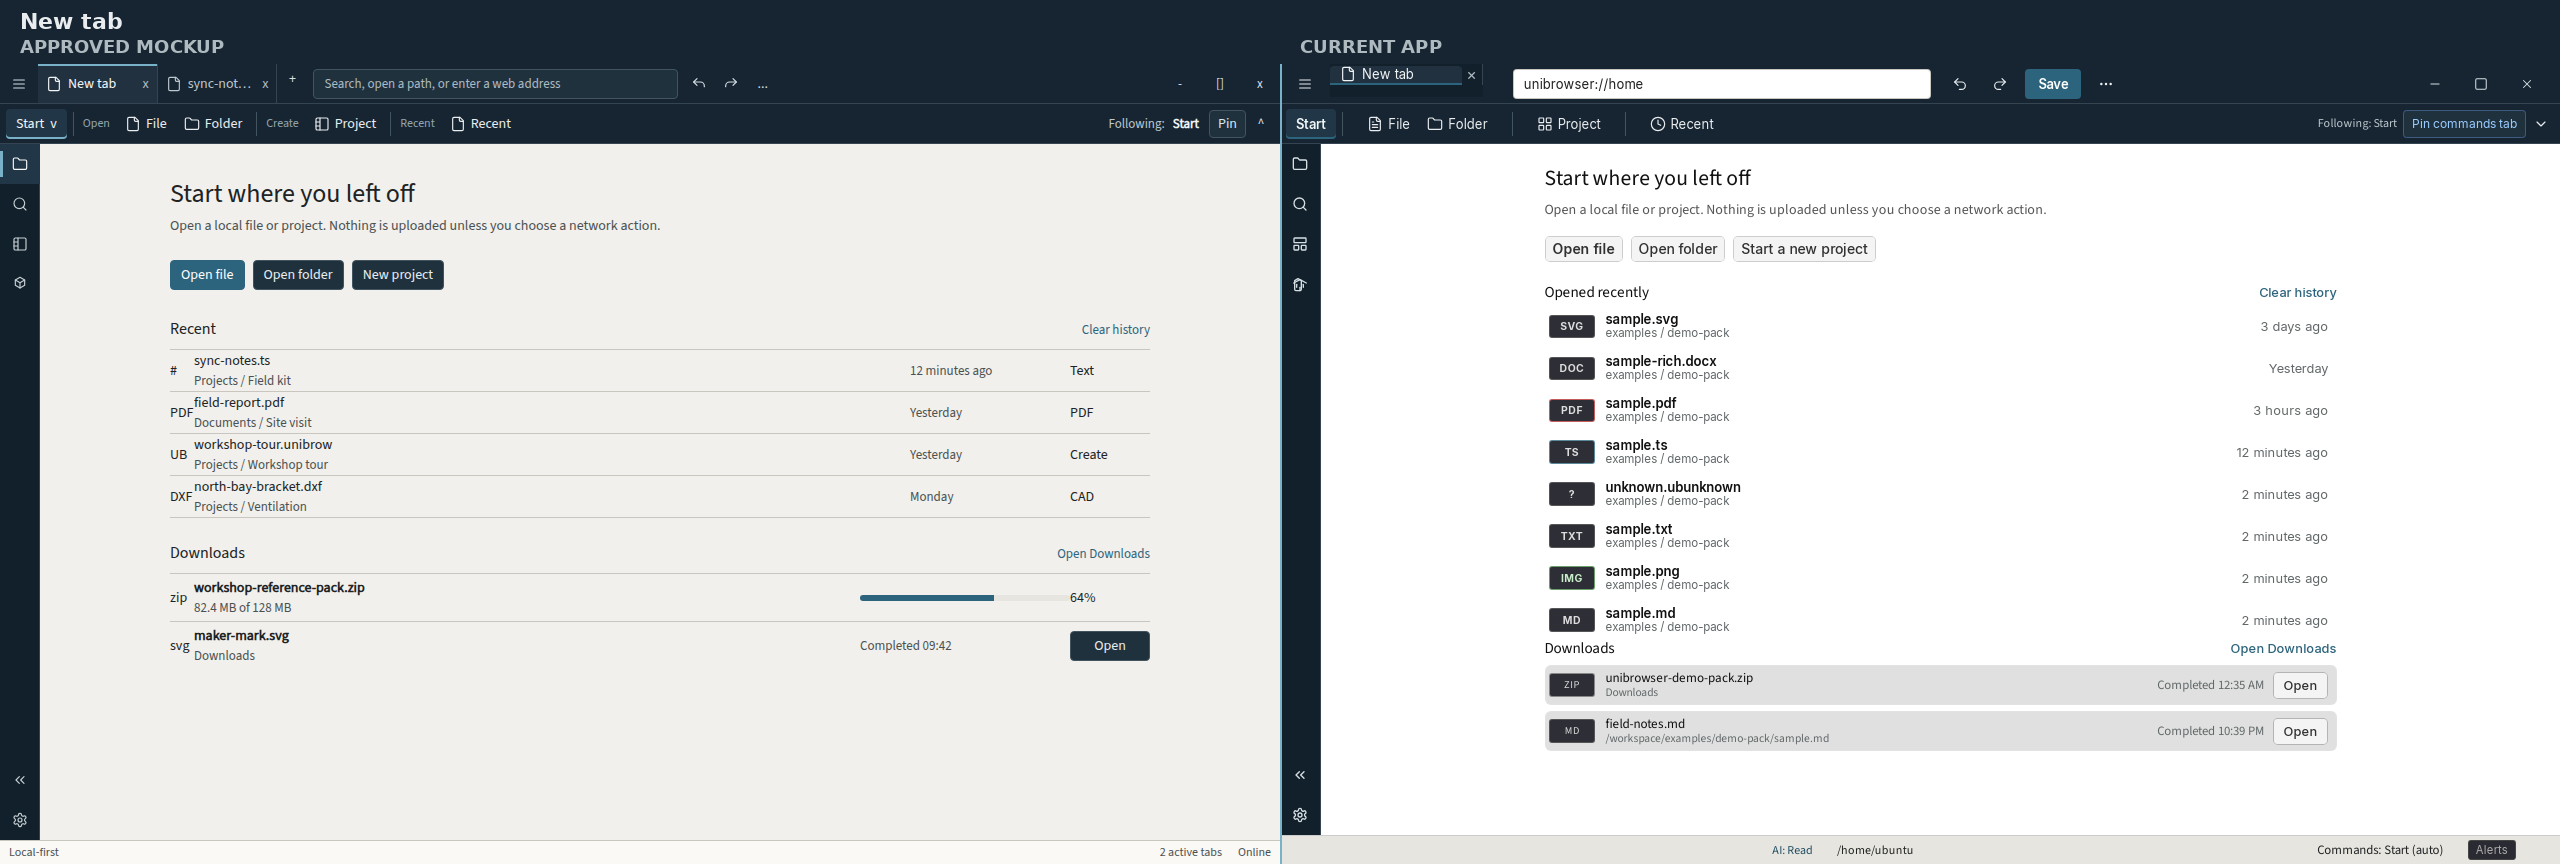
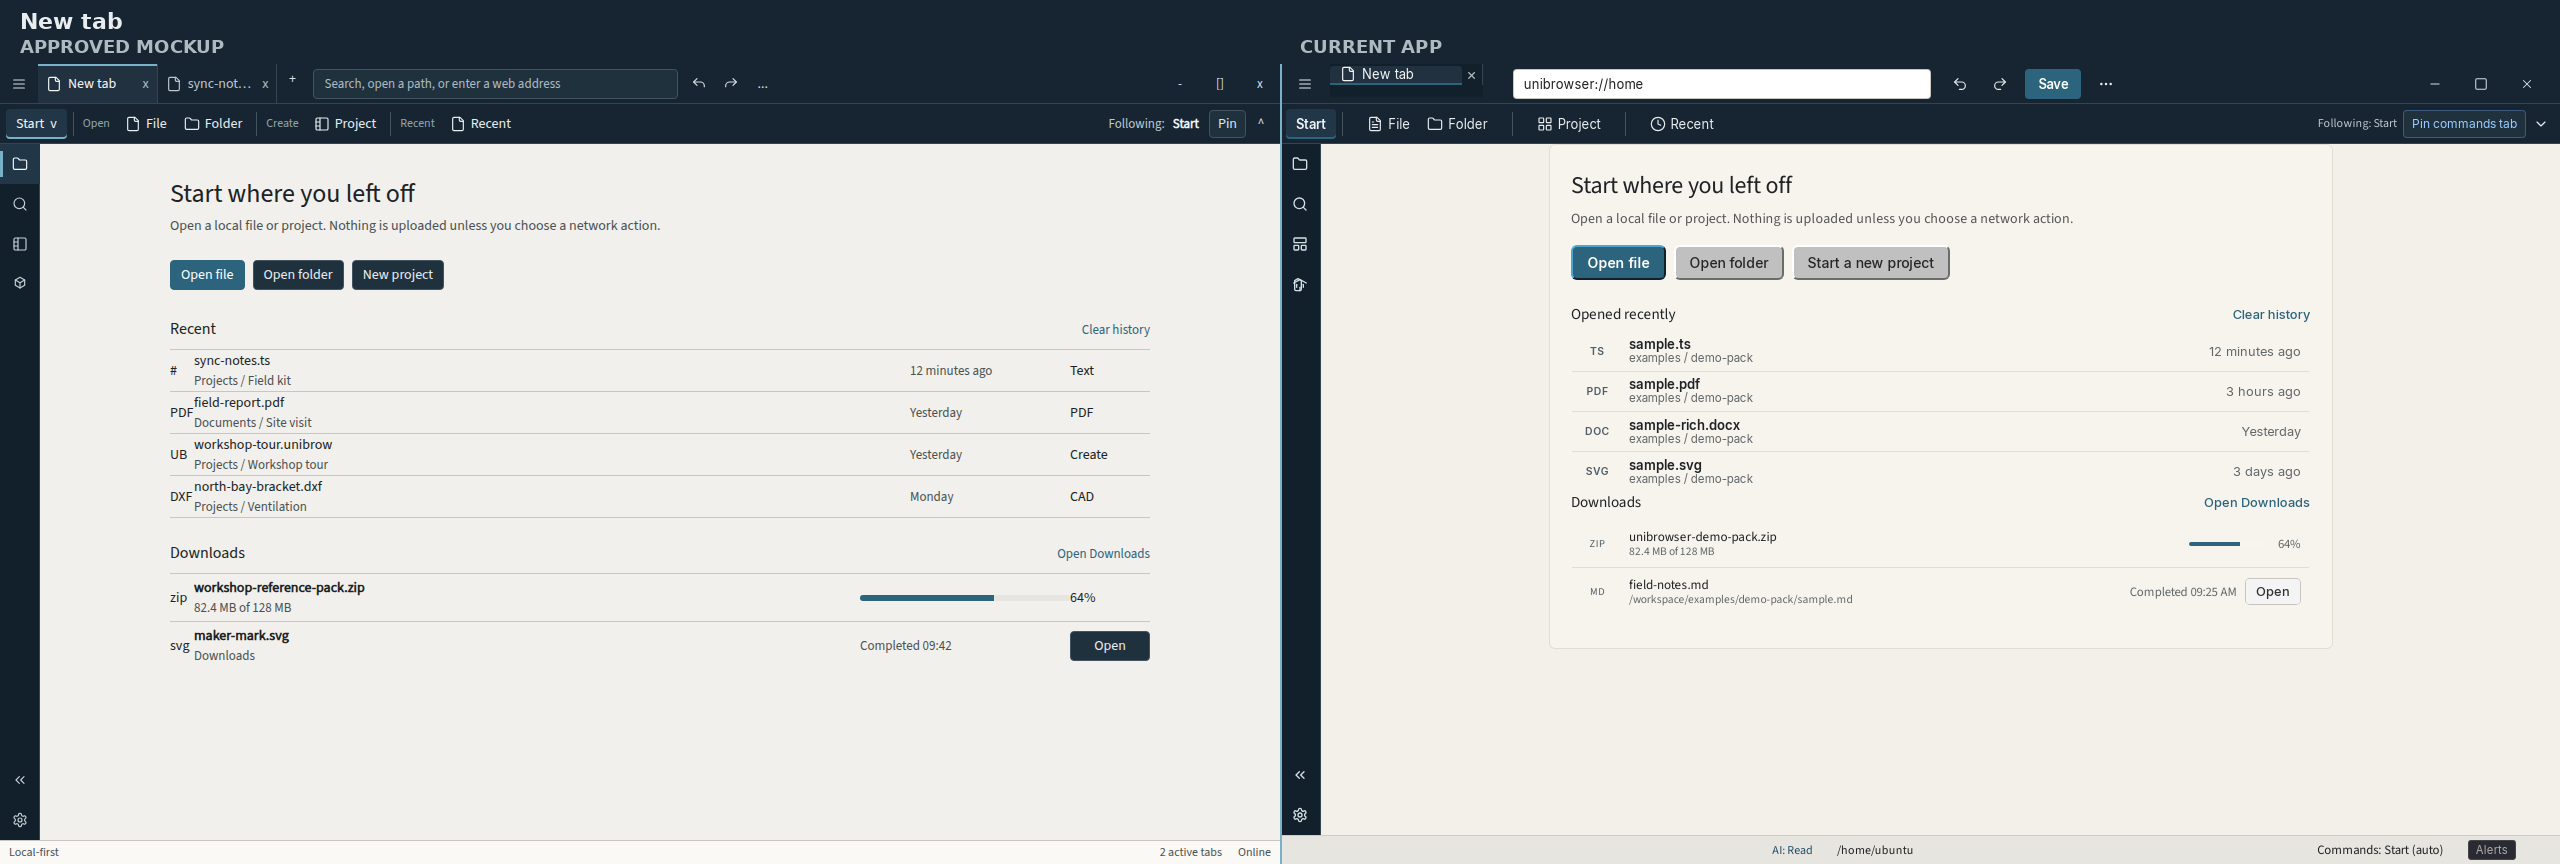
UI-23: Make New tab evidence deterministic

diff --git a/crates/unibrowser-desktop/src/styles.css b/crates/unibrowser-desktop/src/styles.css
@@ -1294,11 +1294,27 @@ body.toolbar-window-mode .floating-bar.docked {
   font-weight: 600;
   padding: 0.45rem 0.9rem;
   border-radius: 6px;
+  border-color: var(--ub-accent, #196f93);
+  background: var(--ub-accent, #196f93);
+  color: #fff;
 }
 
 .ntp-actions .ntp-secondary {
   padding: 0.45rem 0.85rem;
   border-radius: 6px;
+}
+
+.ntp-recent-icon .ft-icon,
+.ntp-download-icon .ft-icon {
+  border-color: transparent;
+  background: transparent;
+  color: var(--ub-text-2, #4e5963);
+  font-weight: 600;
+}
+
+[data-theme="light"] .ntp-recent-icon .ft-icon,
+[data-theme="light"] .ntp-download-icon .ft-icon {
+  color: #4f5c66;
 }
 
 .ntp-section h2 {

diff --git a/crates/unibrowser-desktop/src-tauri/src/demo_ntp.rs b/crates/unibrowser-desktop/src-tauri/src/demo_ntp.rs
@@ -1,7 +1,7 @@
 //! Representative New-tab Recent and Downloads rows for docs captures and first-run polish.
 
 use crate::download_history::{DownloadHistoryEntry, DownloadHistoryStatus};
-use crate::preferences::{load_preferences, push_recent_file, save_preferences};
+use crate::preferences::{load_preferences, save_preferences, RecentFileEntry};
 
 fn demo_root() -> String {
     std::env::var("UNIBROWSER_REPO_ROOT")
@@ -26,13 +26,15 @@ pub fn seed_demo_ntp_fixture() -> Result<(), String> {
         (format!("{}/sample-rich.docx", root), "sample-rich.docx", now - 26 * 3600_000),
         (format!("{}/sample.svg", root), "sample.svg", now - 3 * 24 * 3600_000),
     ];
-    for (path, label, opened_at_ms) in recent {
-        let path = path;
-        push_recent_file(&mut prefs, path.clone(), label.to_string());
-        if let Some(entry) = prefs.recent_files.iter_mut().find(|e| e.path == path) {
-            entry.opened_at_ms = opened_at_ms;
-        }
-    }
+    prefs.recent_files = recent
+        .into_iter()
+        .map(|(path, label, opened_at_ms)| RecentFileEntry {
+            path,
+            label: label.to_string(),
+            pinned: false,
+            opened_at_ms,
+        })
+        .collect();
     save_preferences(&prefs)?;
 
     let in_progress = DownloadHistoryEntry {
@@ -55,7 +57,7 @@ pub fn seed_demo_ntp_fixture() -> Result<(), String> {
         progress_percent: None,
         at_ms: now - 2 * 3600_000,
     };
-    crate::download_history::seed_demo_entries_if_empty(vec![in_progress, completed])?;
+    crate::download_history::replace_with_demo_entries(vec![in_progress, completed])?;
     Ok(())
 }
 

diff --git a/crates/unibrowser-desktop/src-tauri/src/download_history.rs b/crates/unibrowser-desktop/src-tauri/src/download_history.rs
@@ -103,6 +103,11 @@ pub fn seed_demo_entries_if_empty(entries: Vec<DownloadHistoryEntry>) -> Result<
     save_store(&store)
 }
 
+/// Replaces history with deterministic rows for hidden documentation captures.
+pub fn replace_with_demo_entries(entries: Vec<DownloadHistoryEntry>) -> Result<(), String> {
+    save_store(&Store { entries })
+}
+
 pub fn record_success(url: &str, status: DownloadHistoryStatus, destination: Option<&str>) {
     let label = crate::downloads::suggested_download_filename(url);
     let mut store = load_store();
